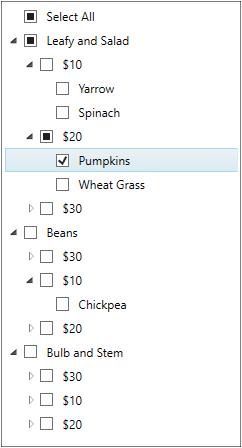
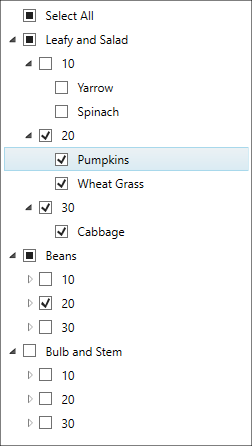
CheckListBox code snippet changed

Changed region(s): [[0.0, 0.0, 1.0, 1.0]]

diff --git a/wpf/CheckedListBox/Appearance.md b/wpf/CheckedListBox/Appearance.md
@@ -129,7 +129,7 @@ We change the `DataTemplate` of the each `CheckListBox` items by using the `Item
 //Model.cs
 class Vegetable {
     public string Category { get; set; }
-    public string Price { get; set; }
+    public int Price { get; set; }
     public string Name { get; set; }
 }
 
@@ -138,17 +138,17 @@ class ViewModel {
     public ObservableCollection<Vegetable> Vegetables { get; set; }
     public ViewModel() {
         Vegetables = new ObservableCollection<Vegetable>();
-        Vegetables.Add(new Vegetable { Price = "$10", Name = "Yarrow", Category = "Leafy and Salad" });
-        Vegetables.Add(new Vegetable { Price = "$20", Name = "Pumpkins", Category = "Leafy and Salad" });
-        Vegetables.Add(new Vegetable { Price = "$30", Name = "Cabbage", Category = "Leafy and Salad" });
-        Vegetables.Add(new Vegetable { Price = "$10", Name = "Spinach", Category = "Leafy and Salad" });
-        Vegetables.Add(new Vegetable { Price = "$20", Name = "Wheat Grass", Category = "Leafy and Salad" });
-        Vegetables.Add(new Vegetable { Price = "$30", Name = "Horse gram", Category = "Beans" });
-        Vegetables.Add(new Vegetable { Price = "$10", Name = "Chickpea", Category = "Beans" });
-        Vegetables.Add(new Vegetable { Price = "$20", Name = "Green bean", Category = "Beans" });
-        Vegetables.Add(new Vegetable { Price = "$30", Name = "Garlic", Category = "Bulb and Stem" });
-        Vegetables.Add(new Vegetable { Price = "$10", Name = "Onion", Category = "Bulb and Stem" });
-        Vegetables.Add(new Vegetable { Price = "$20", Name = "Nopal", Category = "Bulb and Stem" });
+        Vegetables.Add(new Vegetable { Price=10, Name="Yarrow", Category="Leafy and Salad" });
+        Vegetables.Add(new Vegetable { Price=20, Name="Pumpkins", Category="Leafy and Salad" });
+        Vegetables.Add(new Vegetable { Price=30, Name="Cabbage", Category="Leafy and Salad" });
+        Vegetables.Add(new Vegetable { Price=10, Name="Spinach", Category="Leafy and Salad" });
+        Vegetables.Add(new Vegetable { Price=20, Name="Wheat Grass", Category="Leafy and Salad" });
+        Vegetables.Add(new Vegetable { Price=30, Name="Horse gram", Category="Beans" });
+        Vegetables.Add(new Vegetable { Price=10, Name="Chickpea", Category="Beans" });
+        Vegetables.Add(new Vegetable { Price=20, Name="Green bean", Category="Beans" });
+        Vegetables.Add(new Vegetable { Price=30, Name="Garlic", Category="Bulb and Stem" });
+        Vegetables.Add(new Vegetable { Price=10, Name="Onion", Category="Bulb and Stem" });
+        Vegetables.Add(new Vegetable { Price=20, Name="Nopal", Category="Bulb and Stem" });
     }
 }
 
@@ -191,7 +191,7 @@ We change the `DataTemplate` of the group header items by using the `GroupTempla
 //Model.cs
 class Vegetable {
     public string Category { get; set; }
-    public string Price { get; set; }
+    public int Price { get; set; }
     public string Name { get; set; }
 }
 
@@ -207,17 +207,17 @@ class ViewModel {
     }
     public ViewModel() {
         Vegetables = new ObservableCollection<Vegetable>();
-        Vegetables.Add(new Vegetable { Price = "$10", Name = "Yarrow", Category = "Leafy and Salad" });
-        Vegetables.Add(new Vegetable { Price = "$20", Name = "Pumpkins", Category = "Leafy and Salad" });
-        Vegetables.Add(new Vegetable { Price = "$30", Name = "Cabbage", Category = "Leafy and Salad" });
-        Vegetables.Add(new Vegetable { Price = "$10", Name = "Spinach", Category = "Leafy and Salad" });
-        Vegetables.Add(new Vegetable { Price = "$20", Name = "Wheat Grass", Category = "Leafy and Salad" });
-        Vegetables.Add(new Vegetable { Price = "$30", Name = "Horse gram", Category = "Beans" });
-        Vegetables.Add(new Vegetable { Price = "$10", Name = "Chickpea", Category = "Beans" });
-        Vegetables.Add(new Vegetable { Price = "$20", Name = "Green bean", Category = "Beans" });
-        Vegetables.Add(new Vegetable { Price = "$30", Name = "Garlic", Category = "Bulb and Stem" });
-        Vegetables.Add(new Vegetable { Price = "$10", Name = "Onion", Category = "Bulb and Stem" });
-        Vegetables.Add(new Vegetable { Price = "$20", Name = "Nopal", Category = "Bulb and Stem" });
+        Vegetables.Add(new Vegetable { Price=10, Name="Yarrow", Category="Leafy and Salad" });
+        Vegetables.Add(new Vegetable { Price=20, Name="Pumpkins", Category="Leafy and Salad" });
+        Vegetables.Add(new Vegetable { Price=30, Name="Cabbage", Category="Leafy and Salad" });
+        Vegetables.Add(new Vegetable { Price=10, Name="Spinach", Category="Leafy and Salad" });
+        Vegetables.Add(new Vegetable { Price=20, Name="Wheat Grass", Category="Leafy and Salad" });
+        Vegetables.Add(new Vegetable { Price=30, Name="Horse gram", Category="Beans" });
+        Vegetables.Add(new Vegetable { Price=10, Name="Chickpea", Category="Beans" });
+        Vegetables.Add(new Vegetable { Price=20, Name="Green bean", Category="Beans" });
+        Vegetables.Add(new Vegetable { Price=30, Name="Garlic", Category="Bulb and Stem" });
+        Vegetables.Add(new Vegetable { Price=10, Name="Onion", Category="Bulb and Stem" });
+        Vegetables.Add(new Vegetable { Price=20, Name="Nopal", Category="Bulb and Stem" });
 
         //Initialize the checklistbox LoadedCommand
         LoadedCommand = new DelegateCommand<object>(OnLoaded);
@@ -268,7 +268,7 @@ We change the `DataTemplate` of the `SelectAll` item by using the `SelectAllTemp
 //Model.cs
 class Vegetable {
     public string Category { get; set; }
-    public string Price { get; set; }
+    public int Price { get; set; }
     public string Name { get; set; }
 }
 
@@ -277,17 +277,17 @@ class ViewModel {
     public ObservableCollection<Vegetable> Vegetables { get; set; }
     public ViewModel() {
         Vegetables = new ObservableCollection<Vegetable>();
-        Vegetables.Add(new Vegetable { Price = "$10", Name = "Yarrow", Category = "Leafy and Salad" });
-        Vegetables.Add(new Vegetable { Price = "$20", Name = "Pumpkins", Category = "Leafy and Salad" });
-        Vegetables.Add(new Vegetable { Price = "$30", Name = "Cabbage", Category = "Leafy and Salad" });
-        Vegetables.Add(new Vegetable { Price = "$10", Name = "Spinach", Category = "Leafy and Salad" });
-        Vegetables.Add(new Vegetable { Price = "$20", Name = "Wheat Grass", Category = "Leafy and Salad" });
-        Vegetables.Add(new Vegetable { Price = "$30", Name = "Horse gram", Category = "Beans" });
-        Vegetables.Add(new Vegetable { Price = "$10", Name = "Chickpea", Category = "Beans" });
-        Vegetables.Add(new Vegetable { Price = "$20", Name = "Green bean", Category = "Beans" });
-        Vegetables.Add(new Vegetable { Price = "$30", Name = "Garlic", Category = "Bulb and Stem" });
-        Vegetables.Add(new Vegetable { Price = "$10", Name = "Onion", Category = "Bulb and Stem" });
-        Vegetables.Add(new Vegetable { Price = "$20", Name = "Nopal", Category = "Bulb and Stem" });
+        Vegetables.Add(new Vegetable { Price=10, Name="Yarrow", Category="Leafy and Salad" });
+        Vegetables.Add(new Vegetable { Price=20, Name="Pumpkins", Category="Leafy and Salad" });
+        Vegetables.Add(new Vegetable { Price=30, Name="Cabbage", Category="Leafy and Salad" });
+        Vegetables.Add(new Vegetable { Price=10, Name="Spinach", Category="Leafy and Salad" });
+        Vegetables.Add(new Vegetable { Price=20, Name="Wheat Grass", Category="Leafy and Salad" });
+        Vegetables.Add(new Vegetable { Price=30, Name="Horse gram", Category="Beans" });
+        Vegetables.Add(new Vegetable { Price=10, Name="Chickpea", Category="Beans" });
+        Vegetables.Add(new Vegetable { Price=20, Name="Green bean", Category="Beans" });
+        Vegetables.Add(new Vegetable { Price=30, Name="Garlic", Category="Bulb and Stem" });
+        Vegetables.Add(new Vegetable { Price=10, Name="Onion", Category="Bulb and Stem" });
+        Vegetables.Add(new Vegetable { Price=20, Name="Nopal", Category="Bulb and Stem" });
     }
 }
 
@@ -390,7 +390,7 @@ We can change the various `DataTemplate` for the `CheckListBox` items based on t
 //Model.cs
 public class Vegetable {
     public string Category { get; set; }
-    public string Price { get; set; }
+    public int Price { get; set; }
     public string Name { get; set; }
 }
 
@@ -406,17 +406,17 @@ class ViewModel {
     }
     public ViewModel() {
         Vegetables = new ObservableCollection<Vegetable>();
-        Vegetables.Add(new Vegetable { Price = "$10", Name = "Yarrow", Category = "Leafy and Salad" });
-        Vegetables.Add(new Vegetable { Price = "$20", Name = "Pumpkins", Category = "Leafy and Salad" });
-        Vegetables.Add(new Vegetable { Price = "$30", Name = "Cabbage", Category = "Leafy and Salad" });
-        Vegetables.Add(new Vegetable { Price = "$10", Name = "Spinach", Category = "Leafy and Salad" });
-        Vegetables.Add(new Vegetable { Price = "$20", Name = "Wheat Grass", Category = "Leafy and Salad" });
-        Vegetables.Add(new Vegetable { Price = "$30", Name = "Horse gram", Category = "Beans" });
-        Vegetables.Add(new Vegetable { Price = "$10", Name = "Chickpea", Category = "Beans" });
-        Vegetables.Add(new Vegetable { Price = "$20", Name = "Green bean", Category = "Beans" });
-        Vegetables.Add(new Vegetable { Price = "$30", Name = "Garlic", Category = "Bulb and Stem" });
-        Vegetables.Add(new Vegetable { Price = "$10", Name = "Onion", Category = "Bulb and Stem" });
-        Vegetables.Add(new Vegetable { Price = "$20", Name = "Nopal", Category = "Bulb and Stem" });
+        Vegetables.Add(new Vegetable { Price=10, Name="Yarrow", Category="Leafy and Salad" });
+        Vegetables.Add(new Vegetable { Price=20, Name="Pumpkins", Category="Leafy and Salad" });
+        Vegetables.Add(new Vegetable { Price=30, Name="Cabbage", Category="Leafy and Salad" });
+        Vegetables.Add(new Vegetable { Price=10, Name="Spinach", Category="Leafy and Salad" });
+        Vegetables.Add(new Vegetable { Price=20, Name="Wheat Grass", Category="Leafy and Salad" });
+        Vegetables.Add(new Vegetable { Price=30, Name="Horse gram", Category="Beans" });
+        Vegetables.Add(new Vegetable { Price=10, Name="Chickpea", Category="Beans" });
+        Vegetables.Add(new Vegetable { Price=20, Name="Green bean", Category="Beans" });
+        Vegetables.Add(new Vegetable { Price=30, Name="Garlic", Category="Bulb and Stem" });
+        Vegetables.Add(new Vegetable { Price=10, Name="Onion", Category="Bulb and Stem" });
+        Vegetables.Add(new Vegetable { Price=20, Name="Nopal", Category="Bulb and Stem" });
 
         //Initialize the checklistbox LoadedCommand
         LoadedCommand = new DelegateCommand<object>(OnLoaded);
@@ -489,7 +489,7 @@ We can choose the style for the `CheckListBox` items based on the provided logic
 //Model.cs
 public class Vegetable {
     public string Category { get; set; }
-    public string Price { get; set; }
+    public int Price { get; set; }
     public string Name { get; set; }
 }
 
@@ -505,17 +505,17 @@ class ViewModel {
     }
     public ViewModel() {
         Vegetables = new ObservableCollection<Vegetable>();
-        Vegetables.Add(new Vegetable { Price = "$10", Name = "Yarrow", Category = "Leafy and Salad" });
-        Vegetables.Add(new Vegetable { Price = "$20", Name = "Pumpkins", Category = "Leafy and Salad" });
-        Vegetables.Add(new Vegetable { Price = "$30", Name = "Cabbage", Category = "Leafy and Salad" });
-        Vegetables.Add(new Vegetable { Price = "$10", Name = "Spinach", Category = "Leafy and Salad" });
-        Vegetables.Add(new Vegetable { Price = "$20", Name = "Wheat Grass", Category = "Leafy and Salad" });
-        Vegetables.Add(new Vegetable { Price = "$30", Name = "Horse gram", Category = "Beans" });
-        Vegetables.Add(new Vegetable { Price = "$10", Name = "Chickpea", Category = "Beans" });
-        Vegetables.Add(new Vegetable { Price = "$20", Name = "Green bean", Category = "Beans" });
-        Vegetables.Add(new Vegetable { Price = "$30", Name = "Garlic", Category = "Bulb and Stem" });
-        Vegetables.Add(new Vegetable { Price = "$10", Name = "Onion", Category = "Bulb and Stem" });
-        Vegetables.Add(new Vegetable { Price = "$20", Name = "Nopal", Category = "Bulb and Stem" });
+        Vegetables.Add(new Vegetable { Price=10, Name="Yarrow", Category="Leafy and Salad" });
+        Vegetables.Add(new Vegetable { Price=20, Name="Pumpkins", Category="Leafy and Salad" });
+        Vegetables.Add(new Vegetable { Price=30, Name="Cabbage", Category="Leafy and Salad" });
+        Vegetables.Add(new Vegetable { Price=10, Name="Spinach", Category="Leafy and Salad" });
+        Vegetables.Add(new Vegetable { Price=20, Name="Wheat Grass", Category="Leafy and Salad" });
+        Vegetables.Add(new Vegetable { Price=30, Name="Horse gram", Category="Beans" });
+        Vegetables.Add(new Vegetable { Price=10, Name="Chickpea", Category="Beans" });
+        Vegetables.Add(new Vegetable { Price=20, Name="Green bean", Category="Beans" });
+        Vegetables.Add(new Vegetable { Price=30, Name="Garlic", Category="Bulb and Stem" });
+        Vegetables.Add(new Vegetable { Price=10, Name="Onion", Category="Bulb and Stem" });
+        Vegetables.Add(new Vegetable { Price=20, Name="Nopal", Category="Bulb and Stem" });
 
         //Initialize the checklistbox LoadedCommand
         LoadedCommand = new DelegateCommand<object>(OnLoaded);

diff --git a/wpf/CheckedListBox/Grouping.md b/wpf/CheckedListBox/Grouping.md
@@ -19,7 +19,7 @@ documentation: ug
 //Model.cs
 class Vegetable {
     public string Category { get; set; }
-    public string Price { get; set; }
+    public int Price { get; set; }
     public string Name { get; set; }
 }
 
@@ -35,12 +35,12 @@ class ViewModel {
     }
     public ViewModel() {
         Vegetables = new ObservableCollection<Vegetable>();
-        Vegetables.Add(new Vegetable { Price="$10", Name="Yarrow", Category="Leafy and Salad"});
-        Vegetables.Add(new Vegetable { Price="$20", Name="Cabbage", Category="Leafy and Salad"});
-        Vegetables.Add(new Vegetable { Price="$30", Name="Horse gram", Category="Beans"});
-        Vegetables.Add(new Vegetable { Price="$20", Name="Green bean", Category="Beans"});
-        Vegetables.Add(new Vegetable { Price="$10", Name="Onion", Category="Bulb and Stem"});
-        Vegetables.Add(new Vegetable { Price="$30", Name="Nopal", Category="Bulb and Stem"});
+        Vegetables.Add(new Vegetable { Price=10, Name="Yarrow", Category="Leafy and Salad"});
+        Vegetables.Add(new Vegetable { Price=20, Name="Cabbage", Category="Leafy and Salad"});
+        Vegetables.Add(new Vegetable { Price=30, Name="Horse gram", Category="Beans"});
+        Vegetables.Add(new Vegetable { Price=20, Name="Green bean", Category="Beans"});
+        Vegetables.Add(new Vegetable { Price=10, Name="Onion", Category="Bulb and Stem"});
+        Vegetables.Add(new Vegetable { Price=30, Name="Nopal", Category="Bulb and Stem"});
 
         //Initialize the CheckListBox LoadedCommand
         LoadedCommand = new DelegateCommand<object>(OnLoaded);
@@ -84,7 +84,7 @@ Click [here](https://github.com/SyncfusionExamples/wpf-checked-listbox-examples/
 //Model.cs
 class Vegetable {
     public string Category { get; set; }
-    public string Price { get; set; }
+    public int Price { get; set; }
     public string Name { get; set; }
 }
 
@@ -101,17 +101,17 @@ class ViewModel {
     }
     public ViewModel() {
         Vegetables = new ObservableCollection<Vegetable>();
-        Vegetables.Add(new Vegetable { Price="$10", Name="Yarrow", Category="Leafy and Salad"});
-        Vegetables.Add(new Vegetable { Price="$20", Name="Pumpkins", Category="Leafy and Salad"});
-        Vegetables.Add(new Vegetable { Price="$30", Name="Cabbage", Category="Leafy and Salad"});
-        Vegetables.Add(new Vegetable { Price="$10", Name="Spinach", Category="Leafy and Salad"});
-        Vegetables.Add(new Vegetable { Price="$20", Name="Wheat Grass", Category="Leafy and Salad"});
-        Vegetables.Add(new Vegetable { Price="$30", Name="Horse gram", Category="Beans"});
-        Vegetables.Add(new Vegetable { Price="$10", Name="Chickpea", Category="Beans"});
-        Vegetables.Add(new Vegetable { Price="$20", Name="Green bean", Category="Beans"});
-        Vegetables.Add(new Vegetable { Price="$30", Name="Garlic", Category="Bulb and Stem"});
-        Vegetables.Add(new Vegetable { Price="$10", Name="Onion", Category="Bulb and Stem"});
-        Vegetables.Add(new Vegetable { Price="$20", Name="Nopal", Category="Bulb and Stem"});
+        Vegetables.Add(new Vegetable { Price=10, Name="Yarrow", Category="Leafy and Salad"});
+        Vegetables.Add(new Vegetable { Price=20", Name="Pumpkins", Category="Leafy and Salad"});
+        Vegetables.Add(new Vegetable { Price=30, Name="Cabbage", Category="Leafy and Salad"});
+        Vegetables.Add(new Vegetable { Price=10, Name="Spinach", Category="Leafy and Salad"});
+        Vegetables.Add(new Vegetable { Price=20, Name="Wheat Grass", Category="Leafy and Salad"});
+        Vegetables.Add(new Vegetable { Price=10, Name="Horse gram", Category="Beans"});
+        Vegetables.Add(new Vegetable { Price=20, Name="Chickpea", Category="Beans"});
+        Vegetables.Add(new Vegetable { Price=30, Name="Green bean", Category="Beans"});
+        Vegetables.Add(new Vegetable { Price=10, Name="Garlic", Category="Bulb and Stem"});
+        Vegetables.Add(new Vegetable { Price=20, Name="Onion", Category="Bulb and Stem"});
+        Vegetables.Add(new Vegetable { Price=30, Name="Nopal", Category="Bulb and Stem"});
 
         //Initialize the checklistbox LoadedCommand
         LoadedCommand = new DelegateCommand<object>(OnLoaded);

diff --git a/wpf/CheckedListBox/Sorting.md b/wpf/CheckedListBox/Sorting.md
@@ -17,7 +17,7 @@ documentation: ug
 //Model.cs
 class Vegetable {
     public string Category { get; set; }
-    public string Price { get; set; }
+    public int Price { get; set; }
     public string Name { get; set; }
 }
 
@@ -37,12 +37,12 @@ class ViewModel {
     }
     public ViewModel() {
         Vegetables = new ObservableCollection<Vegetable>();
-        Vegetables.Add(new Vegetable { Price = "$10", Name = "Yarrow", Category = "Leafy and Salad" });
-        Vegetables.Add(new Vegetable { Price = "$20", Name = "Cabbage", Category = "Leafy and Salad" });
-        Vegetables.Add(new Vegetable { Price = "$30", Name = "Horse gram", Category = "Beans" });
-        Vegetables.Add(new Vegetable { Price = "$20", Name = "Green bean", Category = "Beans" });
-        Vegetables.Add(new Vegetable { Price = "$10", Name = "Onion", Category = "Bulb and Stem" });
-        Vegetables.Add(new Vegetable { Price = "$30", Name = "Nopal", Category = "Bulb and Stem" });
+        Vegetables.Add(new Vegetable { Price = 10, Name = "Yarrow", Category = "Leafy and Salad" });
+        Vegetables.Add(new Vegetable { Price = 20, Name = "Cabbage", Category = "Leafy and Salad" });
+        Vegetables.Add(new Vegetable { Price = 30, Name = "Horse gram", Category = "Beans" });
+        Vegetables.Add(new Vegetable { Price = 20, Name = "Green bean", Category = "Beans" });
+        Vegetables.Add(new Vegetable { Price = 10, Name = "Onion", Category = "Bulb and Stem" });
+        Vegetables.Add(new Vegetable { Price = 30, Name = "Nopal", Category = "Bulb and Stem" });
 
         //Initialize the CheckListBox LoadedCommand
         LoadedCommand = new DelegateCommand<object>(OnLoaded);
